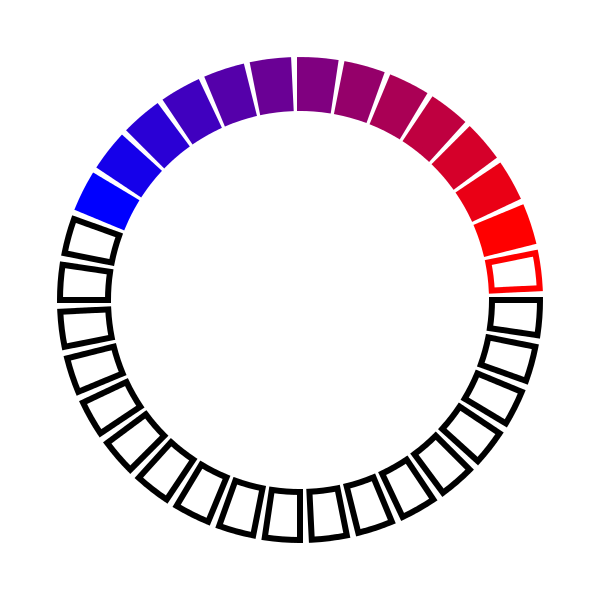
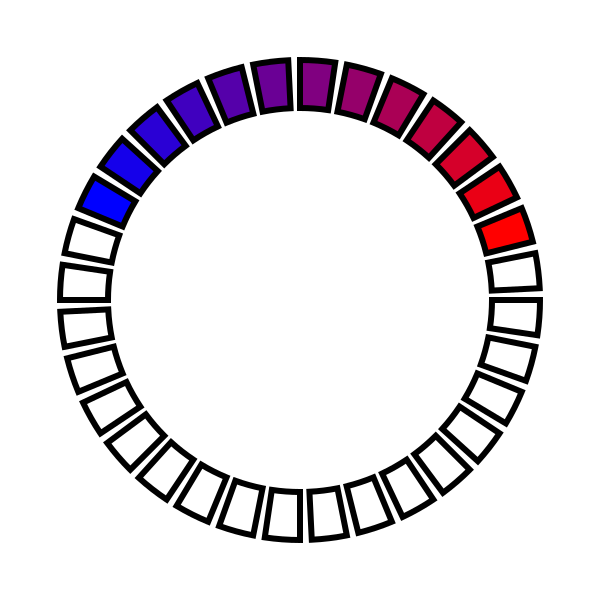
Incremental.

Changed region(s): [[0.12, 0.09, 0.93, 0.51]]

diff --git a/myCairo.py b/myCairo.py
@@ -51,7 +51,7 @@ def doArc(ctx, cx, cy, r1, r2, start, delta, fillWith = None):
         ctx.arc( cx, cy , r1, start, start + delta)
         ctx.fill()
         ctx.close_path()
-    #ctx.set_source_rgb (0, 0, 0) # Solid color
+    ctx.set_source_rgb (0, 0, 0) # Solid color
     ctx.new_path()
     ctx.arc( cx, cy , r1, start, start + delta)
     ctx.arc_negative( cx, cy , r2, start + delta, start)
@@ -306,7 +306,7 @@ def doSurf(SZ,
     ringBuffer(ctx, (0.5, 0.5), 0.4, 0.8 * 0.4 , SEGMENTS, 0.75, fillers = fillers)
     surface.write_to_png (dest) # Output to PNG
     
-doSurf(300, "example5.png", myColor = red)
+doSurf(300, "example5.png", myColor = black)
 doSurf(150, "trading_inout_queue.png")
 doSurf(600,
        "example6.png",
